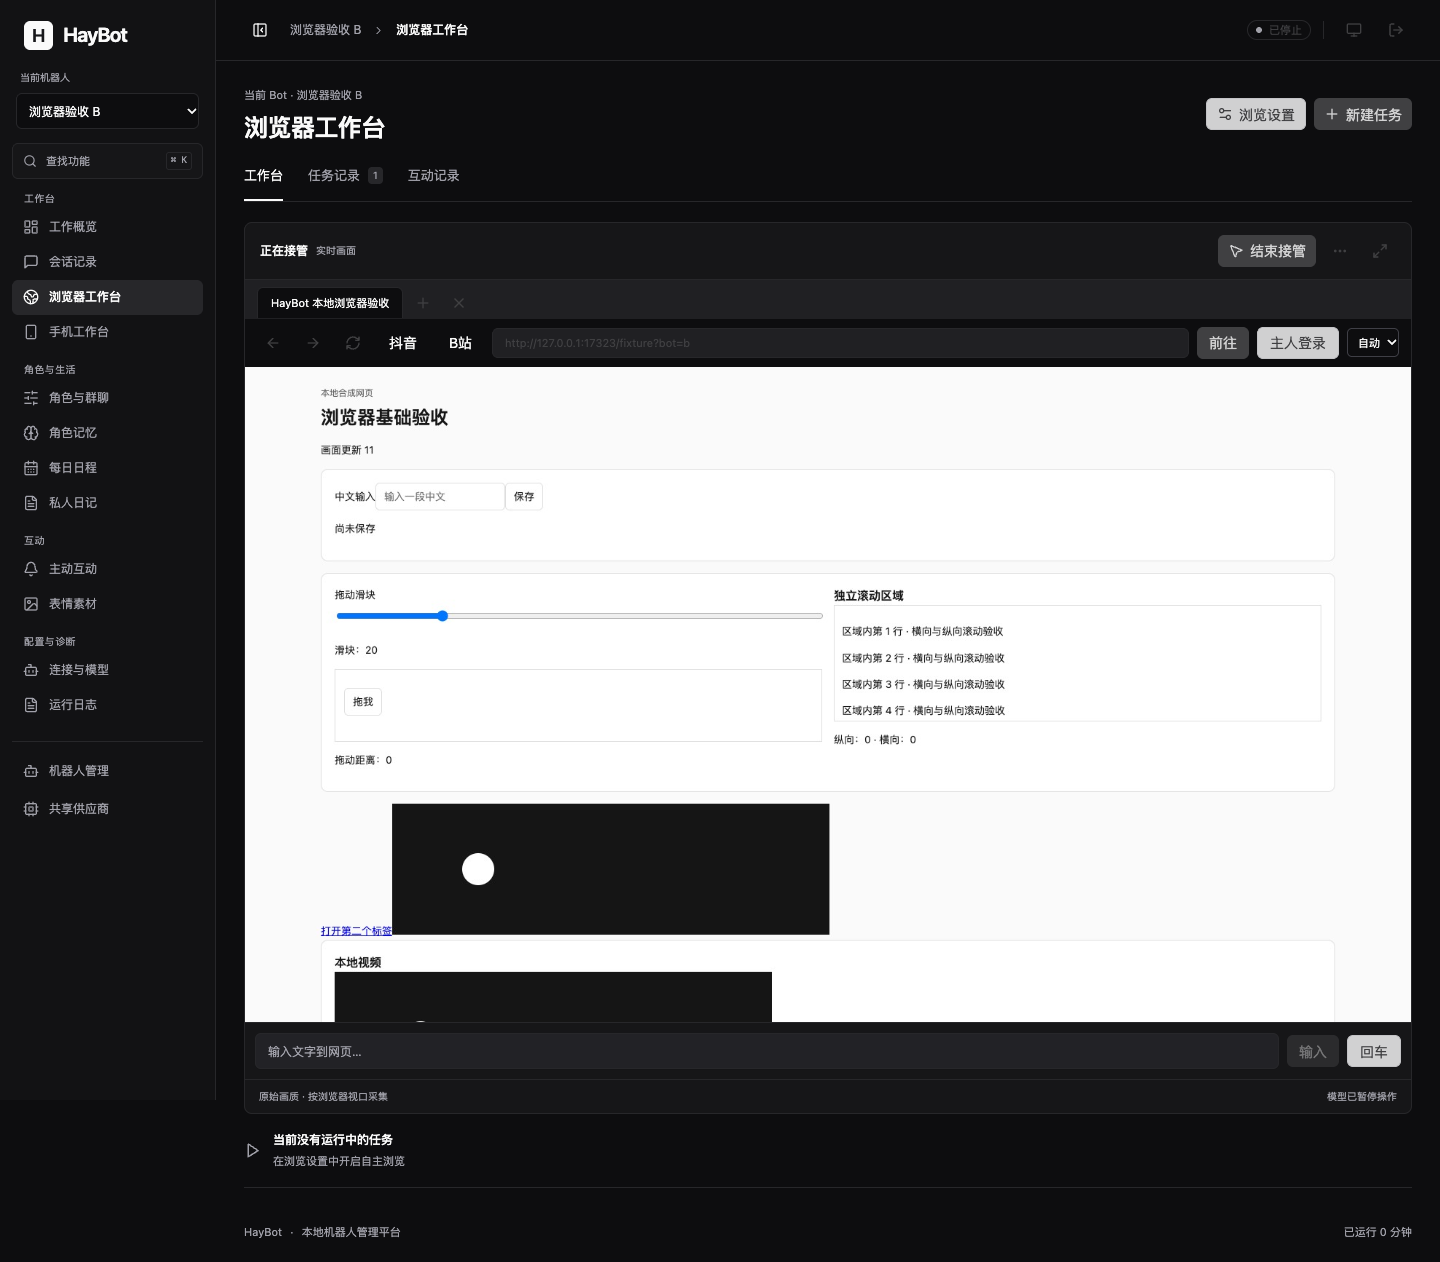
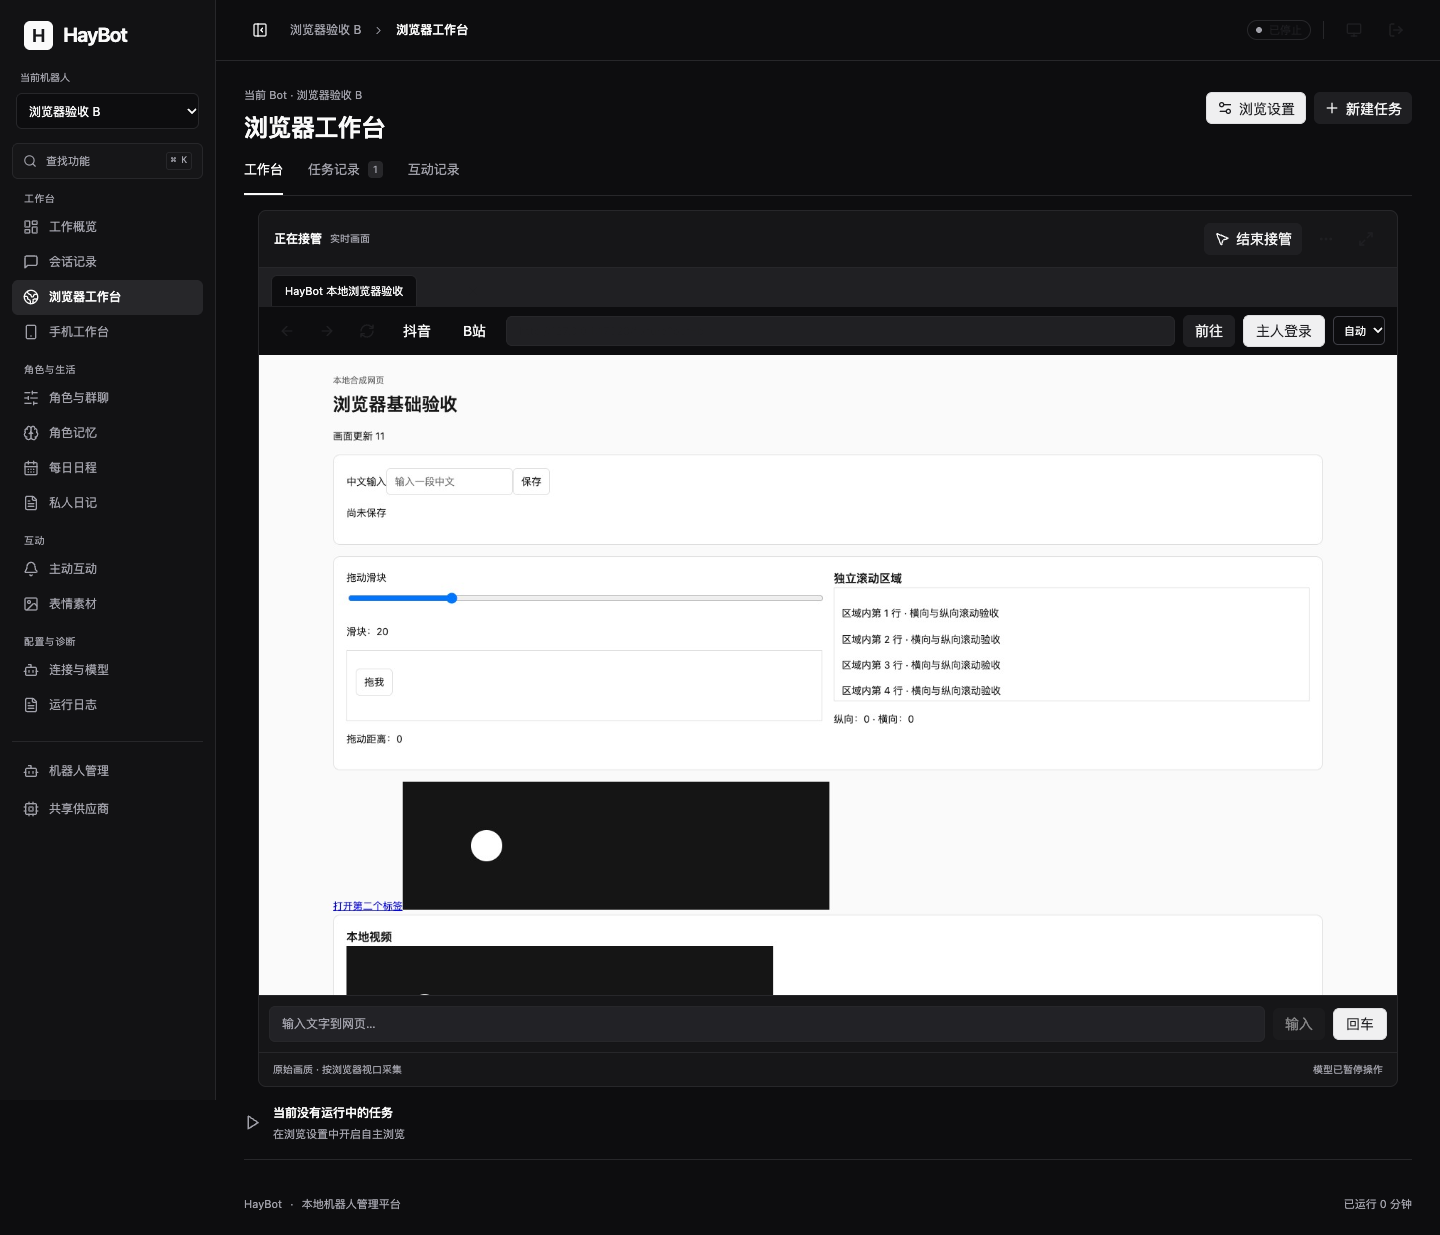
Keep viewer and picture proportional without thumbnail letterboxing

diff --git a/frontend/src/browser.css b/frontend/src/browser.css
@@ -32,10 +32,13 @@
 .browser-page [hidden],.browser-settings-drawer [hidden]{display:none!important}.main.main-browser{max-width:1512px}.browser-workbench{position:relative}.browser-workbench-actions{position:absolute;right:0;top:-68px;display:flex;gap:8px}.browser-page-tabs{display:flex;gap:25px;border-bottom:1px solid var(--border);margin-bottom:20px}.browser-page-tabs>button{display:flex;gap:8px;align-items:center;padding:0 0 13px;border:0;border-bottom:2px solid transparent;background:none;color:var(--muted-foreground);font-size:13px;cursor:pointer}.browser-page-tabs>[aria-selected=true]{color:var(--foreground);border-bottom-color:var(--foreground)}.browser-page-tabs button>span{font-size:10px;background:var(--accent);padding:1px 5px;border-radius:4px}.browser-page-tabs .browser-pending-count{color:#b45309;background:#f59e0b16}.main-browser .browser-viewer:not(.is-expanded){padding:0;gap:0;overflow:hidden}.browser-heading{padding:12px 15px;border-bottom:1px solid var(--border);flex-wrap:nowrap}.browser-heading>div:first-child{min-width:0}.browser-heading>div:first-child span{font-size:10px}.browser-heading b{font-size:12px;font-weight:550}.browser-heading .action-row{flex-wrap:nowrap}.browser-tabs{padding:7px 12px 0;background:var(--muted);min-height:39px}.browser-tabs>[role=tab]{border-radius:6px 6px 0 0;padding:7px 13px;border-bottom:0;font-size:11px}.browser-tabs>[aria-selected=true]{background:var(--background)}.browser-address{padding:8px 12px;background:var(--background)}.browser-address input{height:30px;font-size:11px;background:var(--muted);box-shadow:none}.browser-readonly{font-size:10px;color:var(--muted-foreground);white-space:nowrap}.browser-viewer:not(.is-owned) .browser-control,.browser-viewer:not(.is-owned) .browser-typing{display:none}.browser-viewer.is-owned .browser-readonly{display:none}.browser-address select{max-width:85px;font-size:11px}.browser-screen-wrap{border-radius:0}.browser-screen{border:0;cursor:default}.browser-viewer.is-owned .browser-screen{cursor:grab}.browser-viewer .browser-typing{padding:10px;border-top:1px solid var(--border);margin:0}.browser-typing input{font-size:12px}.browser-viewer-footer{display:flex;justify-content:space-between;gap:10px;padding:9px 14px;font-size:10px;color:var(--muted-foreground);border-top:1px solid var(--border)}.browser-more{position:relative}.browser-menu-dismiss{position:fixed;inset:0;z-index:46;border:0;background:transparent;cursor:default}.browser-menu{position:absolute;right:0;top:34px;z-index:47;min-width:175px;border:1px solid var(--border);border-radius:6px;background:var(--popover);padding:5px;box-shadow:0 8px 20px #0002;display:grid}.browser-menu button{justify-content:flex-start;font-size:12px}.browser-menu .browser-danger{color:var(--destructive)}.browser-current-task{display:flex;align-items:center;gap:12px;padding:17px 0;border-bottom:1px solid var(--border)}.browser-current-task>svg{color:var(--muted-foreground);flex-shrink:0}.browser-current-task>div{flex:1;min-width:0}.browser-current-task b{display:block;font-size:12px;font-weight:550;overflow-wrap:anywhere}.browser-current-task span{display:block;margin-top:4px;font-size:11px;color:var(--muted-foreground)}.browser-auto-strip{padding:14px 0;display:flex;align-items:center;gap:12px;flex-wrap:wrap;font-size:11px;color:var(--muted-foreground)}.browser-auto-strip .action-row{flex:1}.browser-auto-strip .action-row>button{margin-left:auto;font-size:11px;height:28px}.browser-auto-strip>p{margin:0;font-size:11px}.browser-auto-strip>.notice{width:100%}.browser-record-toolbar{display:flex;gap:5px;margin-bottom:18px}.browser-records{border:1px solid var(--border);border-radius:7px;overflow:hidden}.browser-record{display:flex;align-items:center;gap:14px;padding:18px}.browser-record+.browser-record{border-top:1px solid var(--border)}.browser-record>div{flex:1;min-width:0}.browser-record b{font-size:12px;font-weight:550;overflow-wrap:anywhere}.browser-record small{display:block;margin-top:5px;font-size:10px;color:var(--muted-foreground)}.browser-record>span{font-size:11px;color:var(--muted-foreground)}.browser-workbench .douyin-operation-list{max-height:none;border:1px solid var(--border);border-radius:7px}.browser-workbench .douyin-operation-list>div{padding:17px;align-items:center}.douyin-operation-list small{display:block;width:100%;overflow-wrap:anywhere}.browser-environment-dialog,.browser-task-dialog,.browser-settings-drawer,.browser-detail-drawer{position:fixed;z-index:65;background:var(--popover);color:var(--foreground);border:1px solid var(--border);box-shadow:0 16px 70px #0003;outline:none}.browser-environment-dialog{top:50%;left:50%;transform:translate(-50%,-50%);width:min(520px,calc(100vw - 28px));border-radius:10px;padding:24px;max-height:90dvh;overflow:auto}.browser-dialog-heading{display:flex;justify-content:space-between;align-items:flex-start;gap:15px}.browser-dialog-heading h2{font-size:17px;font-weight:600;margin:0}.browser-dialog-heading p{font-size:12px;color:var(--muted-foreground);margin:5px 0 0}.browser-dialog-heading>button{margin-left:auto}.browser-check-loading{display:flex;align-items:center;gap:12px;min-height:160px;font-size:12px;color:var(--muted-foreground)}.browser-spin{animation:browser-spin .9s linear infinite}.browser-checks{margin:18px 0}.browser-checks>div{grid-template-columns:20px 125px minmax(0,1fr);gap:10px;align-items:center;padding:14px 0;font-size:12px;animation:browser-enter .25s ease both}.browser-checks dd{font-size:11px}.browser-checks span{display:flex}.browser-dialog-footer{display:flex;align-items:center;gap:8px;padding-top:18px;margin-top:20px;border-top:1px solid var(--border)}.browser-dialog-footer>span{margin-right:auto;font-size:11px;color:var(--muted-foreground)}.browser-install-help{padding:15px;border:1px solid var(--border);border-radius:6px;background:var(--muted);font-size:12px;margin-top:16px}.browser-install-help p{color:var(--muted-foreground);line-height:1.8;font-size:12px}.browser-settings-drawer,.browser-detail-drawer{top:0;right:0;bottom:0;display:flex;flex-direction:column;width:min(780px,100vw)}.browser-settings-drawer>.browser-dialog-heading,.browser-detail-drawer>.browser-dialog-heading{padding:22px;border-bottom:1px solid var(--border)}.browser-settings-layout{display:flex;flex:1;min-height:0}.browser-settings-layout>nav{width:145px;flex-shrink:0;background:var(--muted);border-right:1px solid var(--border);padding:18px 10px;display:flex;flex-direction:column;gap:5px}.browser-settings-layout nav>button{border:0;text-align:left;border-radius:5px;background:transparent;padding:10px;font-size:12px;color:var(--muted-foreground);cursor:pointer}.browser-settings-layout nav>[aria-current=page]{background:var(--accent);color:var(--foreground)}.browser-settings-content{flex:1;min-width:0;overflow:auto;padding:24px}.browser-settings-content section{display:grid;gap:18px}.browser-settings-content section>.form-grid{grid-template-columns:minmax(0,1fr)}.browser-settings-content label{font-size:12px}.browser-settings-content .browser-viewing-settings{border:0;padding:0}.browser-settings-content .browser-viewing-settings legend{padding:0 0 18px;font-size:14px;font-weight:550}.browser-settings-content .browser-viewing-settings .form-grid{grid-template-columns:minmax(0,1fr)}.browser-settings-content h3{font-size:14px;margin:0}.browser-settings-content p{font-size:12px;color:var(--muted-foreground);margin:0;line-height:1.8}.browser-settings-content input,.browser-settings-content textarea{font-size:12px}.browser-settings-drawer>.browser-dialog-footer{margin:0;padding:18px 22px}.browser-task-dialog{top:50%;left:50%;transform:translate(-50%,-50%);width:min(470px,calc(100vw - 28px));padding:24px;border-radius:9px;max-height:90dvh;overflow:auto}.browser-task-dialog>p{font-size:12px;color:var(--muted-foreground);margin:9px 0 20px}.browser-new-task-form{display:grid;gap:15px}.browser-new-task-form textarea{font-size:13px}.browser-new-task-form>button{justify-self:end}.browser-detail-drawer{width:min(520px,100vw)}.browser-detail-body{padding:24px;overflow:auto;font-size:12px;line-height:1.8}.browser-detail-body h3{font-size:15px;margin:0}.browser-detail-body ol{padding-left:20px}.browser-detail-body li{border-top:1px solid var(--border);padding:14px 0}.browser-detail-body li p{color:var(--muted-foreground)}.browser-detail-body pre{white-space:pre-wrap;overflow-wrap:anywhere}.browser-viewer.is-expanded{gap:0;padding:0}.browser-viewer.is-expanded .browser-screen-wrap{flex:1}.browser-viewer.is-expanded .browser-screen{height:100%}@keyframes browser-spin{to{transform:rotate(360deg)}}@keyframes browser-enter{from{opacity:0;transform:translateY(5px)}to{opacity:1;transform:none}}@media(prefers-reduced-motion:reduce){.browser-spin,.browser-checks>div{animation:none}}@media(max-width:760px){.browser-workbench-actions{position:static;justify-content:flex-end;margin:-8px 0 18px}.browser-heading{padding:10px}.browser-heading>div:first-child span{display:none}.browser-heading b{font-size:11px}.browser-heading .action-row>button{font-size:11px}.browser-heading .action-row{gap:3px}.browser-site-shortcut{display:none}.browser-address{flex-wrap:wrap;padding:7px}.browser-address input{flex-basis:45%}.browser-viewer-footer{font-size:9px;padding:8px}.browser-viewer-footer span:last-child{display:none}.browser-current-task{gap:7px}.browser-current-task>svg{display:none}.browser-current-task b{font-size:11px}.browser-settings-layout>nav{width:110px;padding:12px 5px}.browser-settings-layout nav>button{font-size:11px;padding:9px}.browser-settings-content{padding:17px}.browser-record{padding:14px;gap:8px;flex-wrap:wrap}.browser-record>div{flex-basis:60%}.browser-checks>div{grid-template-columns:18px 100px minmax(0,1fr)}.browser-checks>div>span{grid-column:auto}.browser-settings-drawer>.browser-dialog-footer{padding:15px}.browser-settings-drawer>.browser-dialog-footer>span{font-size:10px}.browser-workbench .douyin-operation-list time{font-size:10px}}
 .browser-workbench .douyin-operation-list:has(.browser-interaction){border:0;display:grid;gap:12px}.browser-interaction{border:1px solid var(--border);border-radius:7px;padding:18px;background:var(--card);min-width:0}.browser-interaction header{display:flex;align-items:center;gap:10px;font-size:11px}.browser-interaction header b{font-size:12px;font-weight:600}.browser-interaction header>span{border:1px solid var(--border);border-radius:4px;padding:1px 6px;font-size:10px}.browser-interaction [data-status=unknown]{color:#b45309;border-color:#f59e0b55}.browser-interaction time{margin-left:auto;font-size:10px}.browser-interaction-video{display:flex;align-items:baseline;gap:14px;margin-top:16px}.browser-interaction-video strong{font-size:13px;font-weight:550;overflow-wrap:anywhere}.browser-interaction-video a{margin-left:auto;white-space:nowrap;font-size:11px;text-decoration:underline;text-underline-offset:3px}.browser-interaction-video>span{font-size:10px;color:var(--muted-foreground)}.browser-interaction dl{display:grid;gap:9px;margin:14px 0 0;font-size:12px}.browser-interaction dl>div{display:grid;grid-template-columns:75px minmax(0,1fr);gap:10px}.browser-interaction dt{color:var(--muted-foreground);font-size:11px}.browser-interaction dd{margin:0;overflow-wrap:anywhere}.browser-interaction-text{white-space:pre-wrap}.browser-interaction-mention{font-size:11px;color:var(--muted-foreground)}.browser-interaction footer{display:flex;align-items:center;justify-content:space-between;gap:12px;margin-top:12px;font-size:11px;color:var(--muted-foreground);overflow-wrap:anywhere}.browser-interaction footer:empty{display:none}@media(max-width:600px){.browser-interaction{padding:14px}.browser-interaction header{flex-wrap:wrap}.browser-interaction time{margin-left:0;flex-basis:100%}.browser-interaction-video{flex-wrap:wrap;gap:6px}.browser-interaction-video a{margin-left:0}.browser-interaction dl>div{grid-template-columns:60px minmax(0,1fr)}}
 
-/* Fit the full remote viewport into the height remaining below the page tools. */
-.browser-viewer .browser-screen-wrap{position:relative;aspect-ratio:16/9;height:auto;max-height:var(--browser-screen-max-height,55dvh);flex-shrink:1;min-height:0}
+/* Size the entire viewer with the picture; never shrink a picture inside a wide black strip. */
+.browser-viewer:not(.is-expanded){width:var(--browser-viewer-width,100%);max-width:100%;margin-inline:auto}
+.browser-viewer .browser-screen-wrap{position:relative;aspect-ratio:16/9;height:auto;max-height:none;flex-shrink:0;min-height:0}
 .browser-viewer .browser-screen{position:absolute;inset:0;width:100%;height:100%;aspect-ratio:auto;object-fit:contain}
 .browser-viewer>.browser-heading,.browser-viewer>.browser-tabs,.browser-viewer>.browser-address,.browser-viewer>.browser-typing,.browser-viewer>.browser-login-notice,.browser-viewer>.browser-viewer-footer{flex-shrink:0}
+.browser-viewer.is-expanded{width:auto;margin:0}
 .browser-viewer.is-expanded .browser-screen-wrap{aspect-ratio:auto;height:auto;max-height:none;flex:1;min-height:0}
 .browser-viewer.is-expanded .browser-screen{height:100%}
-@media(max-height:650px){.main-browser{padding-top:16px;padding-bottom:12px}.main-browser>.page-heading{margin-bottom:16px}.main-browser>.page-heading h1{font-size:22px}.browser-page-tabs{margin-bottom:12px}.browser-heading{padding-block:8px}.browser-current-task{padding-block:10px}.browser-auto-strip{padding-block:9px}}
+.main-browser>.page-heading{margin-bottom:16px}.main-browser .browser-page-tabs{margin-bottom:14px}
+@media(max-height:800px) and (min-width:761px){.main-browser{padding-top:16px;padding-bottom:12px}.main-browser>.page-heading{margin-bottom:12px}.main-browser>.page-heading>div>.page-scope{display:none}.main-browser>.page-heading h1{font-size:22px}.browser-page-tabs{margin-bottom:10px}.browser-heading{padding-block:7px}.browser-tabs{min-height:31px;padding-top:3px}.browser-tabs>[role=tab]{padding-block:5px}.browser-address{padding-block:5px}.browser-viewer-footer{padding-block:6px}.browser-current-task{padding-block:10px}.browser-auto-strip{padding-block:9px}.browser-workbench-actions{top:-51px}}

diff --git a/frontend/src/BrowserViewer.jsx b/frontend/src/BrowserViewer.jsx
@@ -38,12 +38,15 @@ export default function BrowserViewer({ api, botId, ready, notify, onCheck }) {
       // would enlarge the canvas and shift the page beneath the pointer.
       const rect = root.getBoundingClientRect()
       const controls = rect.height - screen.getBoundingClientRect().height
-      const below = [...root.parentElement.querySelectorAll('.browser-current-task, .browser-auto-strip')]
-        .reduce((height, element) => height + element.getBoundingClientRect().height, 0)
       const viewportHeight = window.visualViewport?.height || window.innerHeight
-      const height = Math.max(64, Math.floor(viewportHeight - (rect.top + window.scrollY) - controls - below - 18))
-      const value = `${height}px`
-      if (root.style.getPropertyValue('--browser-screen-max-height') !== value) root.style.setProperty('--browser-screen-max-height', value)
+      // Fit the picture itself, not a full-width black container. Task history
+      // may sit below the fold; it must not squeeze the browser into a thumbnail.
+      const available = viewportHeight - (rect.top + window.scrollY) - controls - 12
+      const minimum = Math.min(360, viewportHeight * 0.48)
+      const height = Math.max(minimum, available)
+      const width = Math.min(root.parentElement.clientWidth, Math.floor(height * 16 / 9))
+      const value = `${width}px`
+      if (root.style.getPropertyValue('--browser-viewer-width') !== value) root.style.setProperty('--browser-viewer-width', value)
     }
     const schedule = () => { if (!pending) pending = requestAnimationFrame(fit) }
     const observer = new ResizeObserver(schedule)

diff --git a/browser_runtime/README.md b/browser_runtime/README.md
@@ -153,4 +153,4 @@ npm --prefix browser_runtime run test:chrome
 
 接管时支持鼠标/悬空笔的 hover：普通移动会转发到远端 Chrome，可打开网页的悬停菜单与提示层；移出画面、窗口失焦时发送离开事件以收起弹层。悬停不按鼠标键，触摸操作沿用手势；拖动时不会被迟到的悬停消息打断。移动按约 33ms 合并，仅保留最新待发送位置，断线、换标签或租约失效时丢弃旧位置。正式工作台与宿主开发页使用同一输入实现。
 
-实时画面会按当前窗口可用高度等比例缩放，保留完整远端视口。高度预算包含工作台顶部、接管/登录工具、文字输入及底部任务/自动浏览状态；调整窗口、进入接管或展开登录提示后自动重算。预算不随页面滚动放大，避免滚动导致布局跳动。推流原始像素不变，显示留白不接收远端输入，放大模式使用剩余全屏空间。已通过 1366×768、1280×720、1024×600、1440×900、390×844 和 844×390 放大模式验收，并验证缩小后的拖动、hover 和黑边拒绝点击。
+实时画面和整个浏览器外框一起等比例适应窗口，不在全宽黑色容器里显示缩小画面。顶部区域在较矮的电脑窗口中收紧；任务和自动浏览状态不再挤占画面高度，必要时允许页面向下滚动，优先保留可读尺寸。推流原始像素保持不变，接管与放大模式沿用相同坐标映射。
